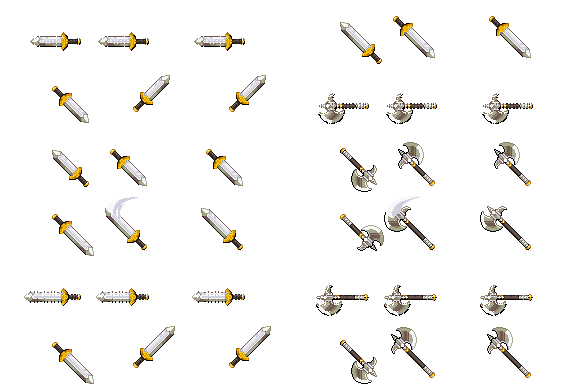
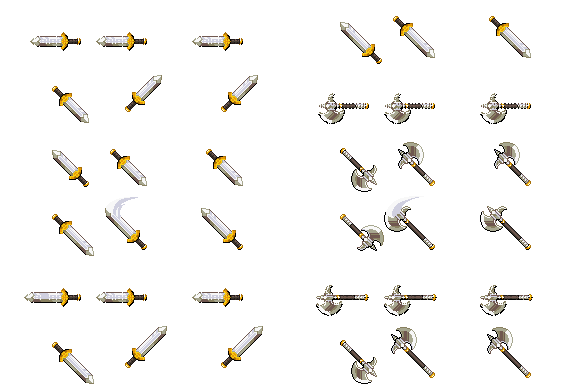
rangefinding efficiency
Made it so obstructions outside of the box occupied by the start and endpoints of an obstruction check just get ignored outright.

diff --git a/js/plugins/TurnBasedStrategyObjects.js b/js/plugins/TurnBasedStrategyObjects.js
@@ -3664,7 +3664,7 @@
 	};
 	
 	Game_Map.prototype.isTrajectoryObstructed = function(startX, startY, endX, endY, passageType, arcedTrajectory) {
-		var d = 5;
+		var d = 0;
 		if(endX > startX) {
 			if(endY > startY) {
 				d = 3;
@@ -3689,7 +3689,7 @@
 			}
 		}
 		
-		if(d == 5) { return false; }
+		if(d == 0) { return false; }
 		
 		var x0 = startX + 0.5;
 		var y0 = startY + 0.5;
@@ -3704,9 +3704,18 @@
 		blockedByTerrain.lowerRight = false;
 		var tileRuns = this._tileRuns;
 		for(i = 0; i < tileRuns.length; i++) {
-			this._queuedActionLoops++;
 			var firstTile = tileRuns[i][0];
 			var lastTile = tileRuns[i][tileRuns[i].length-1];
+			
+			if(
+				((d == 4 || d == 7 || d == 8 || d == 9 || d == 6) & (firstTile.y > startY || lastTile.y < endY)) ||
+				((d == 8 || d == 9 || d == 6 || d == 3 || d == 2) & (lastTile.x < startX || firstTile.x > endX)) ||
+				((d == 6 || d == 3 || d == 2 || d == 1 || d == 4) & (lastTile.y < startY || firstTile.y > endY)) ||
+				((d == 2 || d == 1 || d == 4 || d == 7 || d == 8) & (firstTile.x > startX || lastTile.x < endX))
+			) {
+				this._queuedActionLoops++; continue;
+			}
+			
 			var startAtEdge = false;
 			var endAtEdge = false;
 			if(d == 1) {
@@ -3770,23 +3779,23 @@
 			if(startAtEdge && endAtEdge) {
 				//technically the start and end tiles would have to be one in the same, here
 			} else if(startAtEdge) {
-				if(firstTile.exitability[d][passageType]) { continue; }
+				if(firstTile.exitability[d][passageType]) { this._queuedActionLoops++; continue; }
 			} else if(endAtEdge) {
-				if(firstTile.enterability[d][passageType]) { continue; }
+				if(firstTile.enterability[d][passageType]) { this._queuedActionLoops++; continue; }
 			} else {
-				if(firstTile.exitability[d][passageType] && firstTile.enterability[d][passageType]) { continue; }
+				if(firstTile.exitability[d][passageType] && firstTile.enterability[d][passageType]) { this._queuedActionLoops++; continue; }
 			}
 			
 			blockedByTerrain.middle = blockedByTerrain.middle ? true :
 				this.cohenSutherlandLineClipAndDraw(x0, y0, x1, y1, firstTile.x, firstTile.y, lastTile.x+1, lastTile.y+1);
 			blockedByTerrain.upperLeft = passageType == "walk" || passageType == "fly" || blockedByTerrain.upperLeft ? true :
-				this.cohenSutherlandLineClipAndDraw(x0-0.49, y0-0.49, x1-0.49, y1-0.49, firstTile.x, firstTile.y, lastTile.x+1, lastTile.y+1);
+				this.cohenSutherlandLineClipAndDraw(x0-0.5, y0-0.5, x1-0.5, y1-0.5, firstTile.x, firstTile.y, lastTile.x+1, lastTile.y+1);
 			blockedByTerrain.upperRight = passageType == "walk" || passageType == "fly" || blockedByTerrain.upperRight ? true :
-				this.cohenSutherlandLineClipAndDraw(x0+0.49, y0-0.49, x1+0.49, y1-0.49, firstTile.x, firstTile.y, lastTile.x+1, lastTile.y+1);
+				this.cohenSutherlandLineClipAndDraw(x0+0.5, y0-0.5, x1+0.5, y1-0.5, firstTile.x, firstTile.y, lastTile.x+1, lastTile.y+1);
 			blockedByTerrain.lowerLeft = passageType == "walk" || passageType == "fly" || blockedByTerrain.lowerLeft ? true :
-				this.cohenSutherlandLineClipAndDraw(x0-0.49, y0+0.49, x1-0.49, y1+0.49, firstTile.x, firstTile.y, lastTile.x+1, lastTile.y+1);
+				this.cohenSutherlandLineClipAndDraw(x0-0.5, y0+0.5, x1-0.5, y1+0.5, firstTile.x, firstTile.y, lastTile.x+1, lastTile.y+1);
 			blockedByTerrain.lowerRight = passageType == "walk" || passageType == "fly" || blockedByTerrain.lowerRight ? true :
-				this.cohenSutherlandLineClipAndDraw(x0+0.49, y0+0.49, x1+0.49, y1+0.49, firstTile.x, firstTile.y, lastTile.x+1, lastTile.y+1);
+				this.cohenSutherlandLineClipAndDraw(x0+0.5, y0+0.5, x1+0.5, y1+0.5, firstTile.x, firstTile.y, lastTile.x+1, lastTile.y+1);
 			
 			if(
 				blockedByTerrain.middle &&
@@ -3810,6 +3819,14 @@
 			for(i = 0; i < this._tbsForces.length; i++) {
 				for(j = 0; j < this._tbsForces[i].actors.length; j++) {
 					var chara = this._tbsForces[i].actors[j].chara;
+					if(
+						((d == 4 || d == 7 || d == 8 || d == 9 || d == 6) & (chara.y > startY || chara.y < endY)) ||
+						((d == 8 || d == 9 || d == 6 || d == 3 || d == 2) & (chara.x < startX || chara.x > endX)) ||
+						((d == 6 || d == 3 || d == 2 || d == 1 || d == 4) & (chara.y < startY || chara.y > endY)) ||
+						((d == 2 || d == 1 || d == 4 || d == 7 || d == 8) & (chara.x > startX || chara.x < endX))
+					) {
+						this._queuedActionLoops++; continue;
+					}
 					if((startX == chara.x && startY == chara.y)
 						|| (passageType !== "walk" && passageType !== "fly" && 
 							((endX == chara.x && endY == chara.y) || arcedTrajectory ||
@@ -3819,19 +3836,19 @@
 							&& (this._tbsSelectedActor.forceId == i
 								|| this._tbsForces[i].allyForceIds.indexOf(this._tbsSelectedActor.forceId) >= 0)))
 					{
-						continue;
+						this._queuedActionLoops++; continue;
 					}
 					
 					blockedByTerrain.middle = blockedByTerrain.middle ? true :
 						this.cohenSutherlandLineClipAndDraw(x0, y0, x1, y1, chara.x, chara.y, chara.x+1, chara.y+1);
 					blockedByTerrain.upperLeft = passageType == "walk" || passageType == "fly" || blockedByTerrain.upperLeft ? true :
-						this.cohenSutherlandLineClipAndDraw(x0-0.49, y0-0.49, x1-0.49, y1-0.49, chara.x, chara.y, chara.x+1, chara.y+1)
+						this.cohenSutherlandLineClipAndDraw(x0-0.5, y0-0.5, x1-0.5, y1-0.5, chara.x, chara.y, chara.x+1, chara.y+1)
 					blockedByTerrain.upperRight = passageType == "walk" || passageType == "fly" || blockedByTerrain.upperRight ? true :
-						this.cohenSutherlandLineClipAndDraw(x0+0.49, y0-0.49, x1+0.49, y1-0.49, chara.x, chara.y, chara.x+1, chara.y+1)
+						this.cohenSutherlandLineClipAndDraw(x0+0.5, y0-0.5, x1+0.5, y1-0.5, chara.x, chara.y, chara.x+1, chara.y+1)
 					blockedByTerrain.lowerLeft = passageType == "walk" || passageType == "fly" || blockedByTerrain.lowerLeft ? true :
-						this.cohenSutherlandLineClipAndDraw(x0-0.49, y0+0.49, x1-0.49, y1+0.49, chara.x, chara.y, chara.x+1, chara.y+1)
+						this.cohenSutherlandLineClipAndDraw(x0-0.5, y0+0.5, x1-0.5, y1+0.5, chara.x, chara.y, chara.x+1, chara.y+1)
 					blockedByTerrain.lowerRight = passageType == "walk" || passageType == "fly" || blockedByTerrain.lowerRight ? true :
-						this.cohenSutherlandLineClipAndDraw(x0+0.49, y0+0.49, x1+0.49, y1+0.49, chara.x, chara.y, chara.x+1, chara.y+1)
+						this.cohenSutherlandLineClipAndDraw(x0+0.5, y0+0.5, x1+0.5, y1+0.5, chara.x, chara.y, chara.x+1, chara.y+1)
 					
 					if(
 						blockedByTerrain.middle &&
